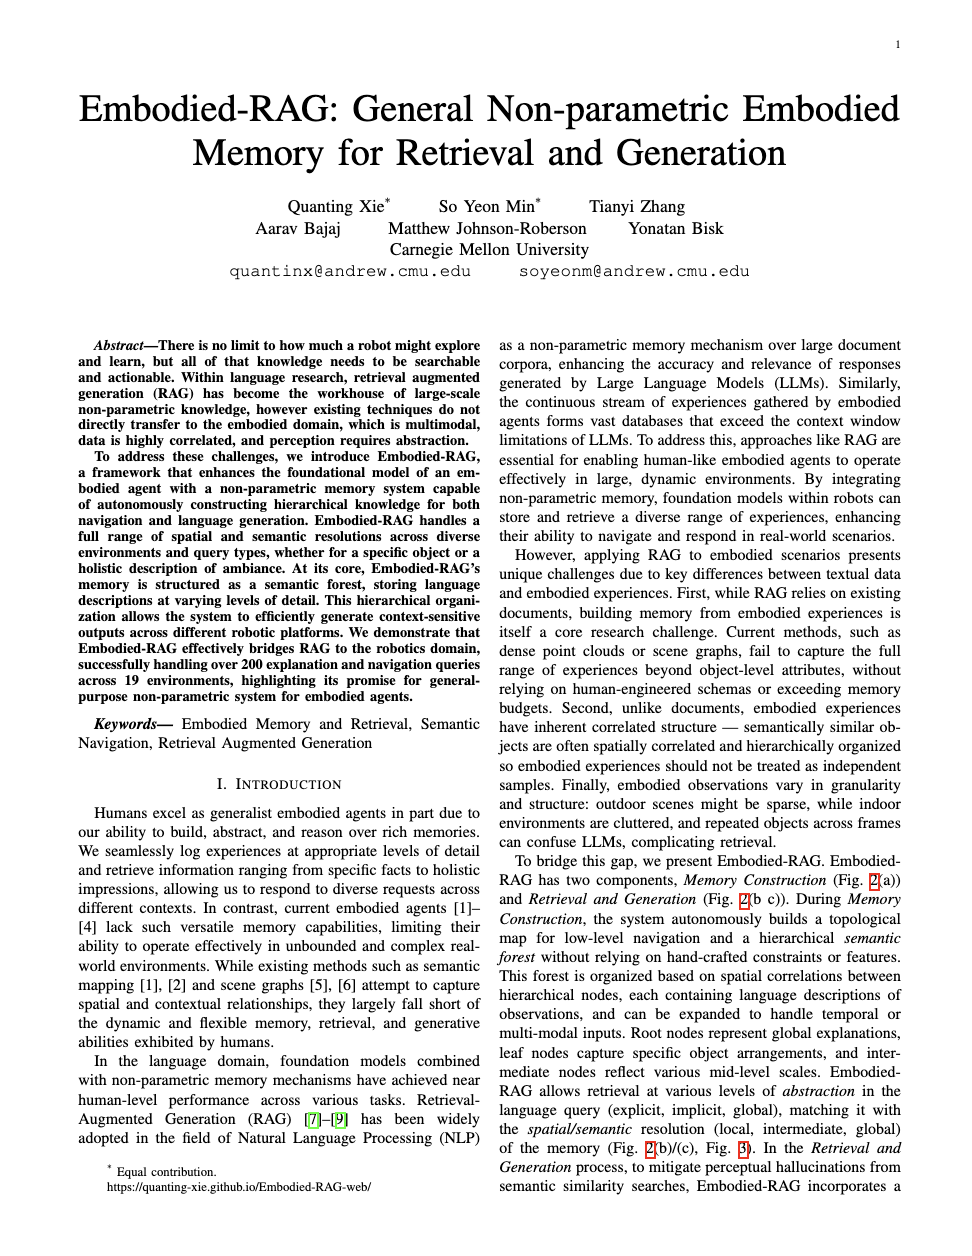
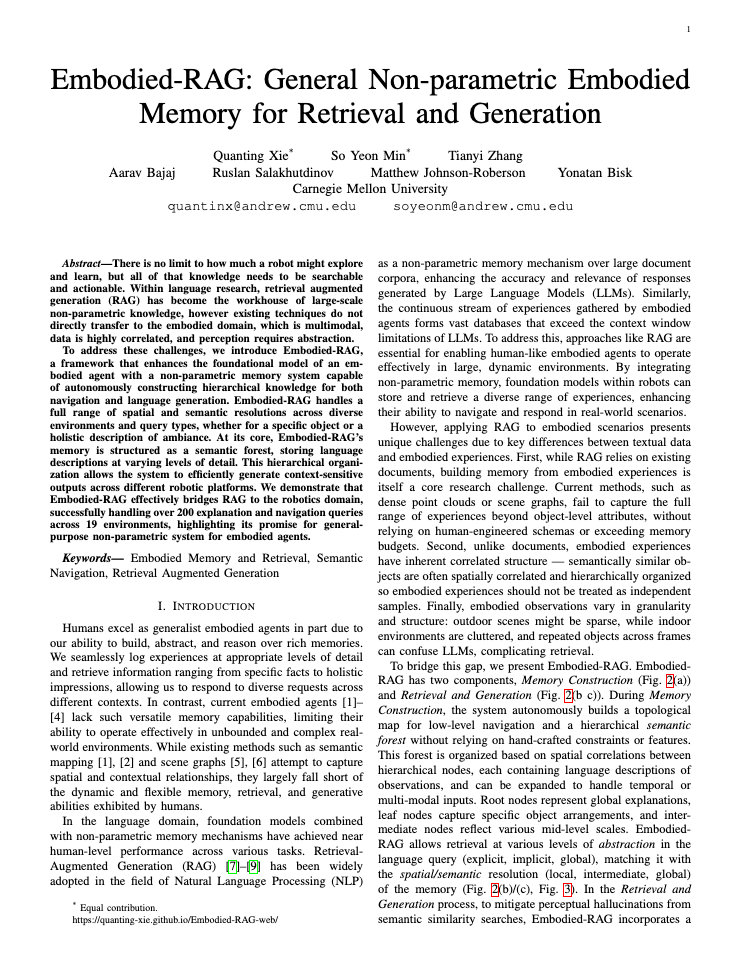
added russ

Changed region(s): [[0.0618, 0.2482, 0.9274, 0.9617], [0.0618, 0.062, 0.9274, 0.2172]]

diff --git a/index.html b/index.html
@@ -564,7 +564,8 @@
         <td width=550px align=left>
         <!-- <p style="margin-top:4px;"></p> -->
 <!--            Chaplot, D.S., Gandhi, D., Gupta, S., Gupta, A. and Salakhutdinov, R., 2020. Learning To Explore Using Active Neural SLAM. In International Conference on Learning Representations (ICLR).-->
-        <p style="text-align:left;"><b><span style="font-size:20pt">Citation</span></b><br/><span style="font-size:6px;">&nbsp;<br/></span> <span style="font-size:15pt">Xie,Q., Min,S., Zhang,T., Johnson-Roberson, M., Bisk, Y. <br>
+        <p style="text-align:left;"><b><span style="font-size:20pt">Citation</span></b><br/><span style="font-size:6px;">&nbsp;<br/></span> <span style="font-size:15pt">Xie,Q., Min,S., Zhang,T., Salakhutdinov, R., Johnson-Roberson, M., Bisk, Y.
+           <br>
           Embodied-RAG: General Non-parametric Embodied
           Memory for Retrieval and Generation.
             <!-- <br> <em> ArXiv, abs/2212.05923.</em> </span></p> -->
